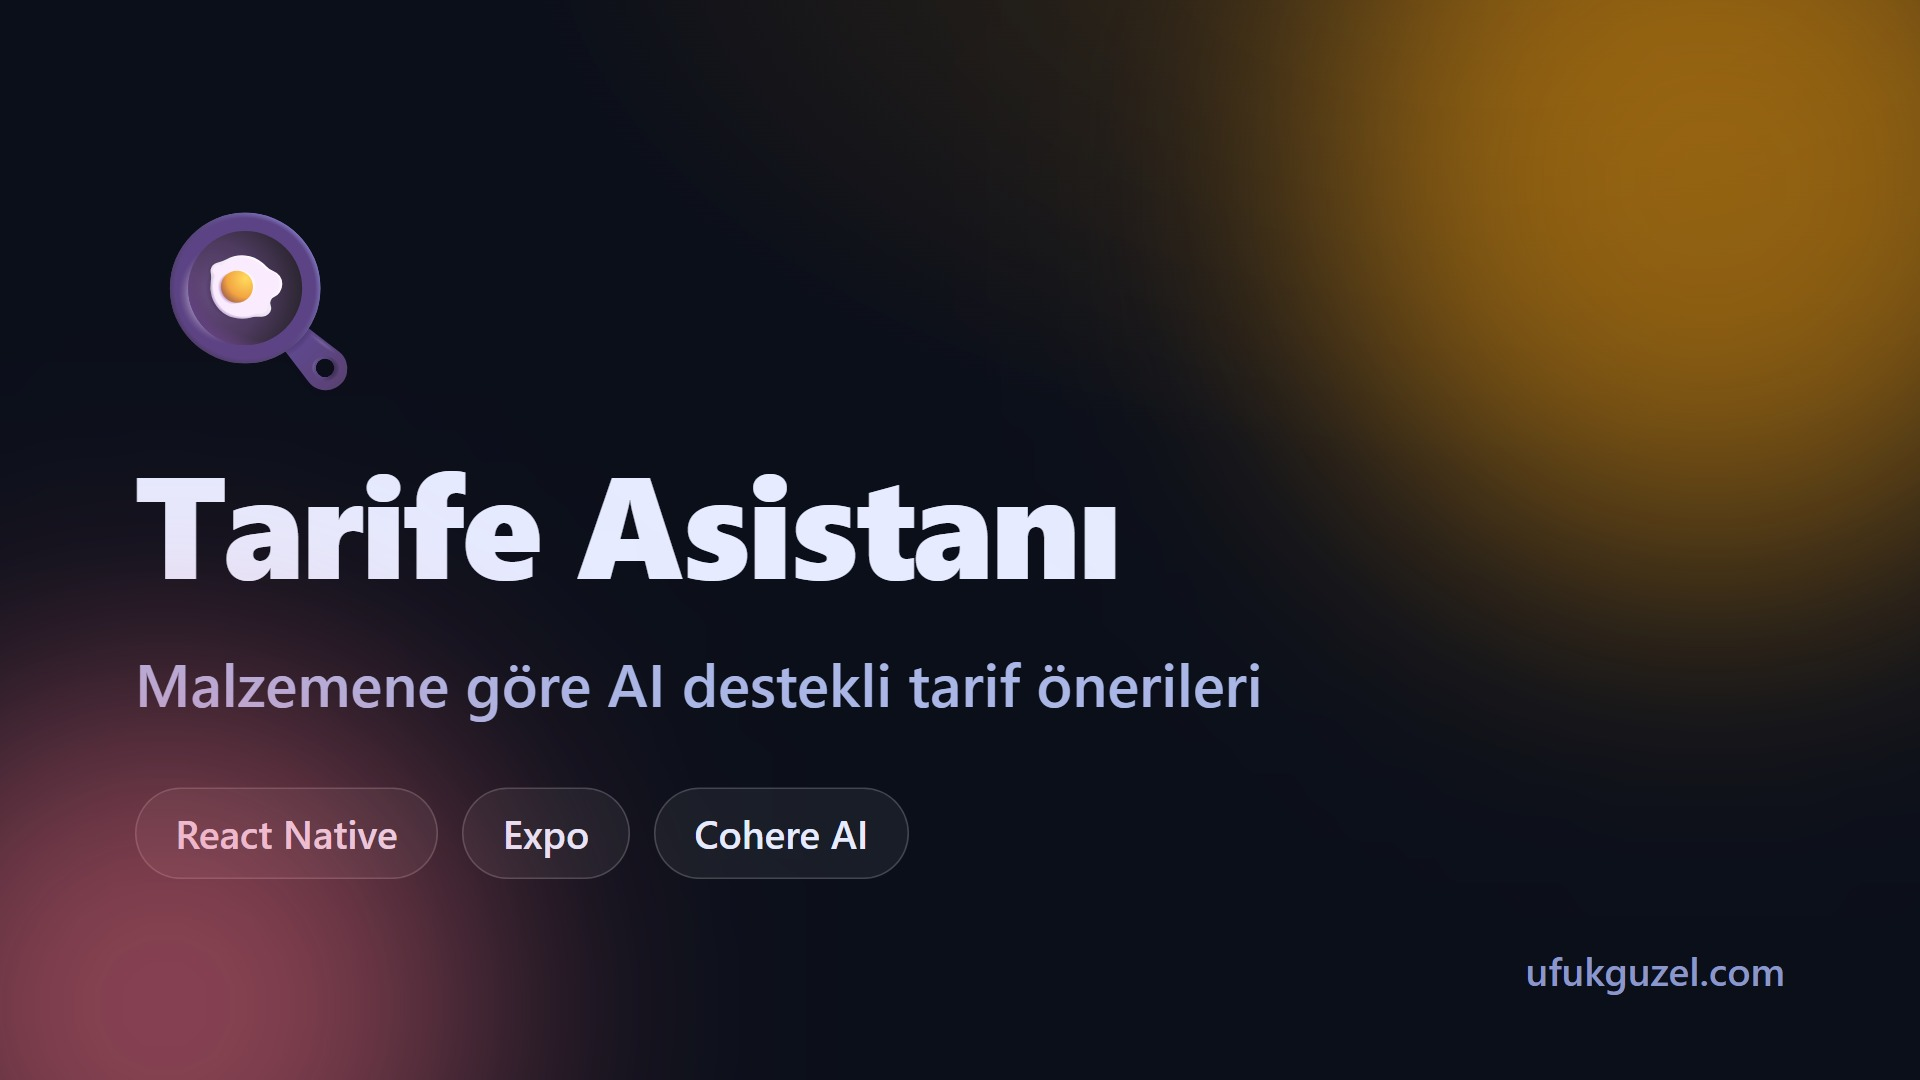
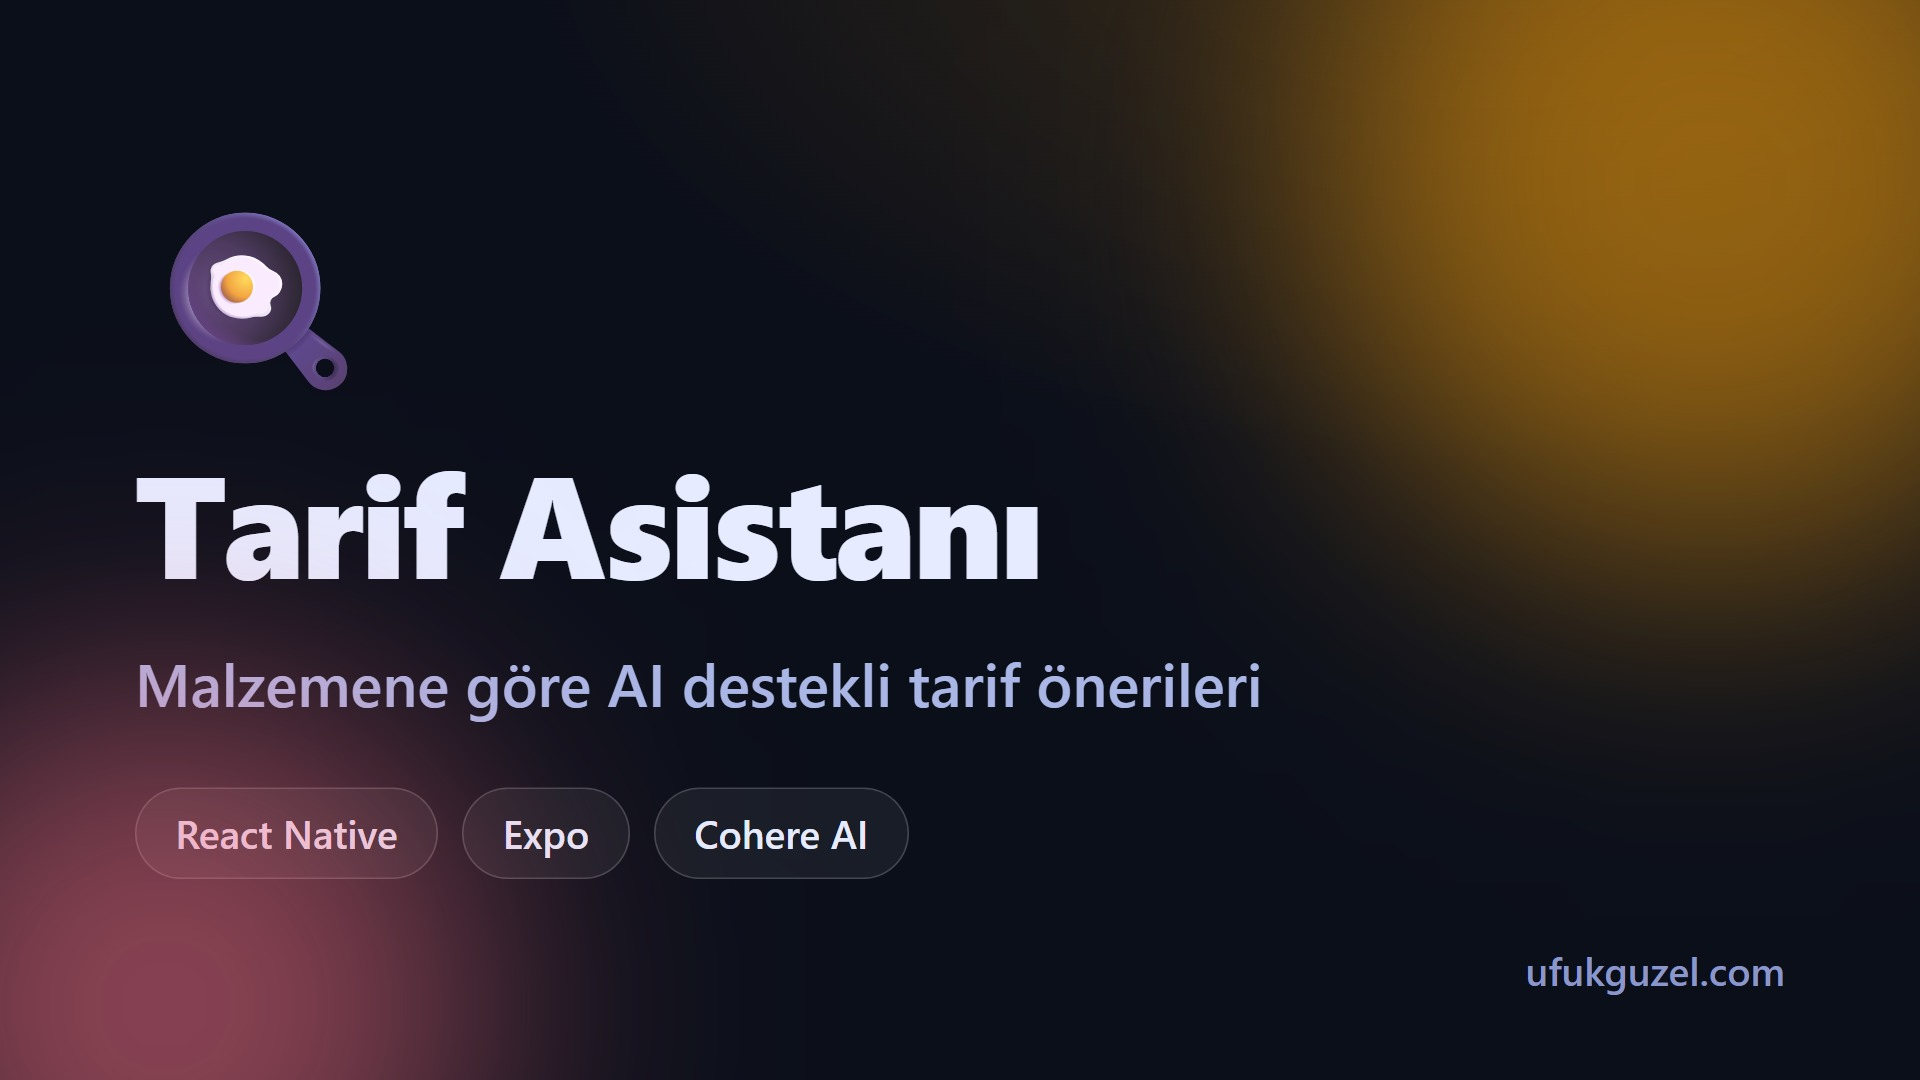
fix: 'Tarif Asistanı' (title + cover typo)

Changed region(s): [[0.2188, 0.4278, 0.5938, 0.55]]

diff --git a/lib/projects-data.ts b/lib/projects-data.ts
@@ -37,7 +37,7 @@ export const ProjectList: Project[] = [
     sourceUrl: "https://github.com/ufukguzel/Is-Takip-Sistemi"
   },
   {
-    title: "Tarife Asistanı (Recipe Assistant)",
+    title: "Tarif Asistanı (Recipe Assistant)",
     description: "A mobile app that suggests recipes from the ingredients you have, powered by an AI language model (Cohere). Built with React Native and Expo, with favorites and step-by-step recipe details.",
     image: `${imageFolderPath}/yemek-tarif-asistani.jpg`,
     demoUrl: "#",
